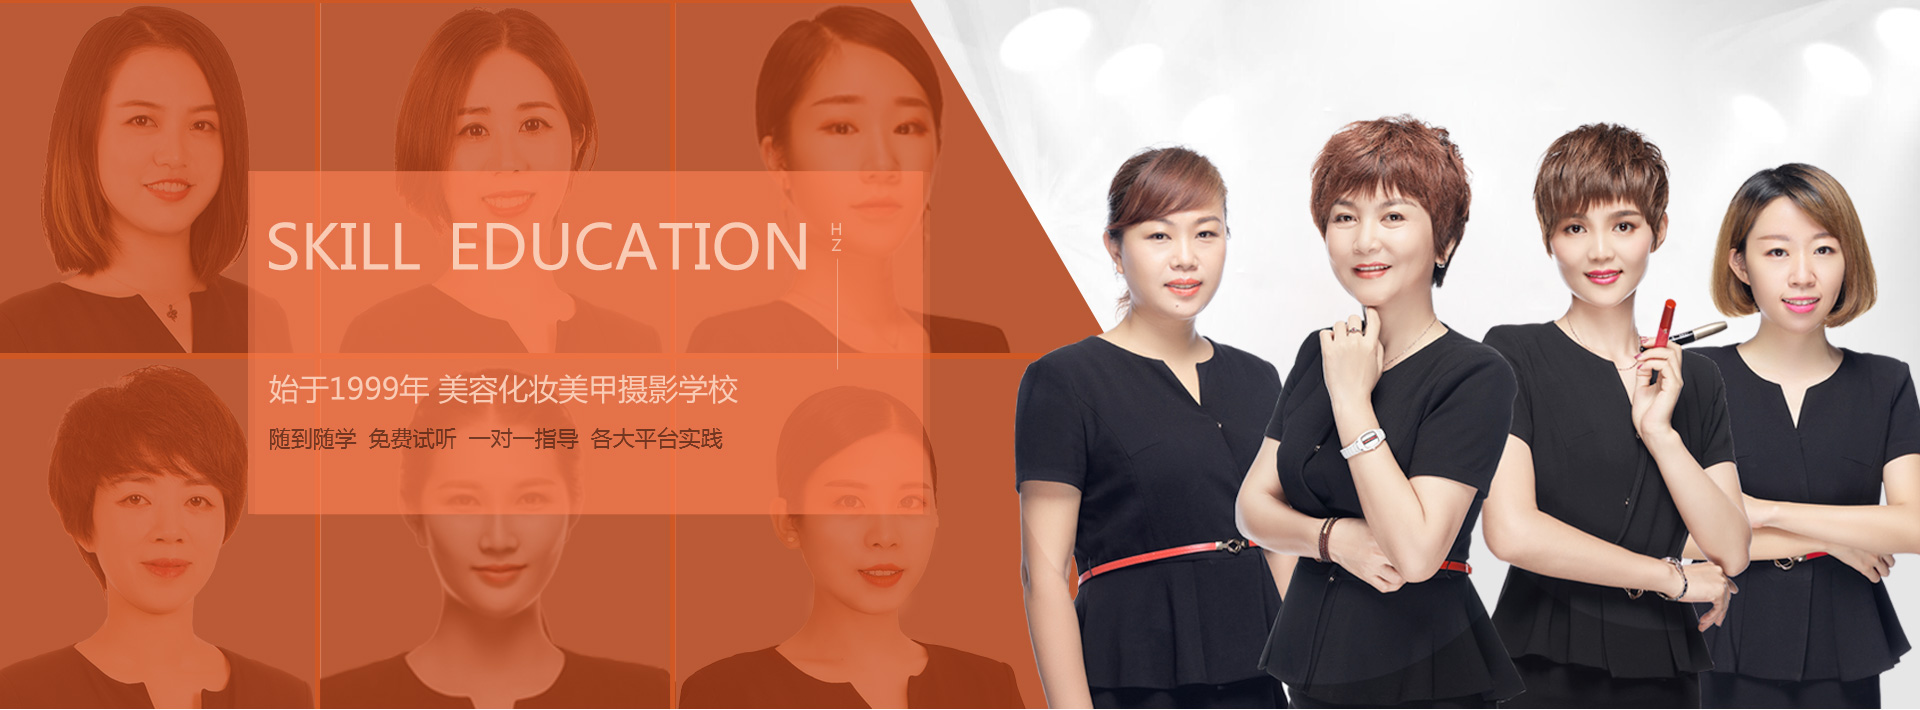
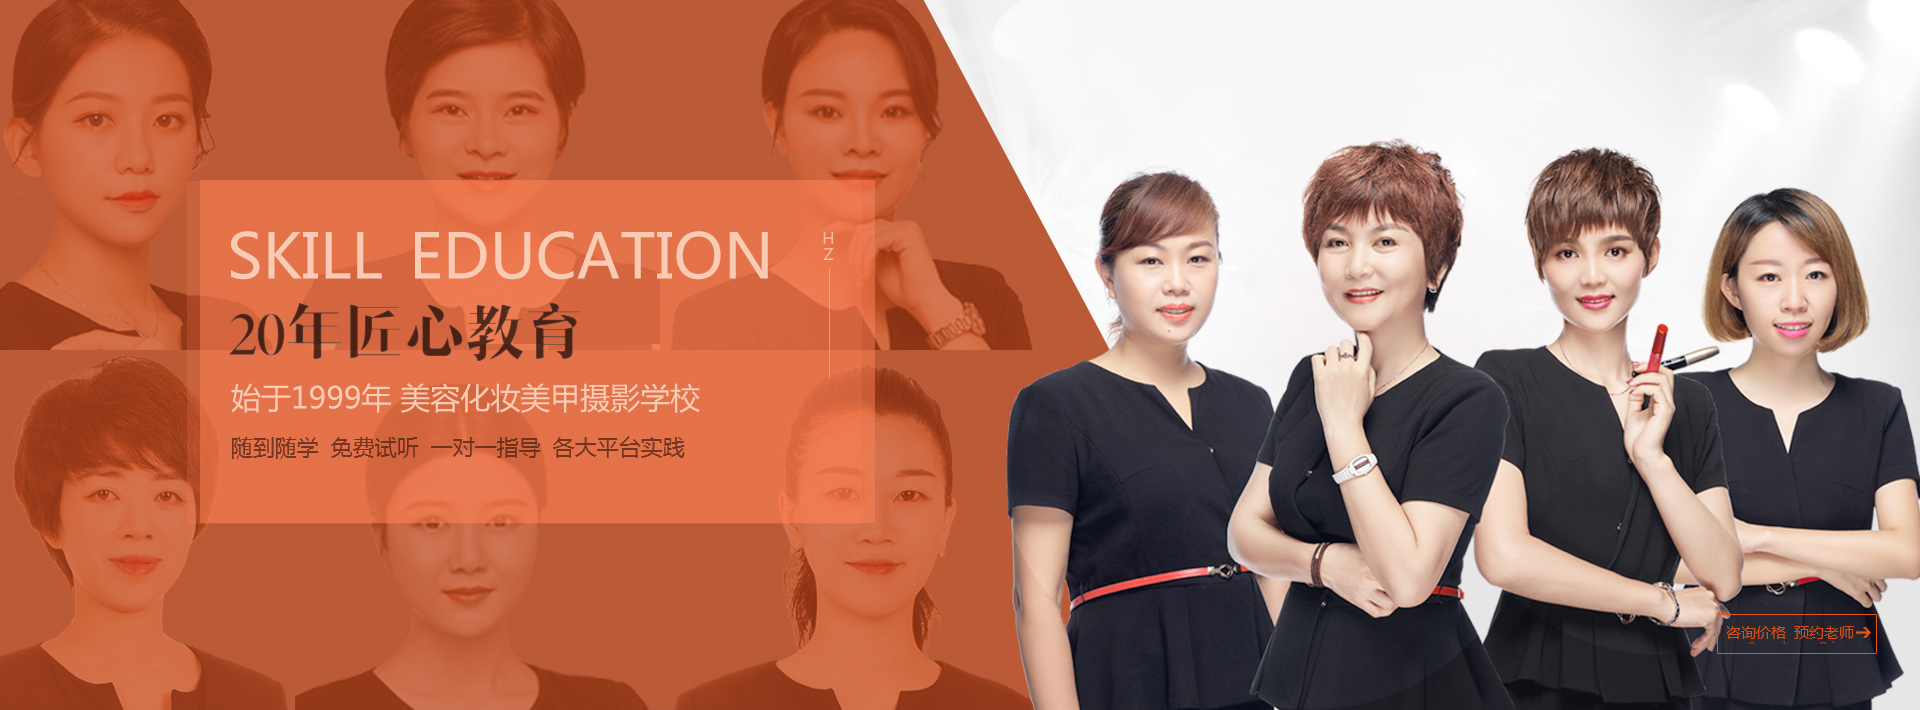
品牌页面老师更新
品牌页面老师更新

Changed region(s): [[0.0, 0.0, 1.0, 1.0], [0.0, 0.8986, 0.0625, 0.9606], [0.9688, 0.0, 1.0, 0.031]]

diff --git a/www.hkhongzhuang.com/static/css/pc/brand.css b/www.hkhongzhuang.com/static/css/pc/brand.css
@@ -28,7 +28,7 @@ body { background: #fff; font-family: "å¾®è½¯é›…é»‘", sans-serif,
 .brand .g-container .g-doc .g-title h2 { font-size: 40px; font-weight: normal; font-stretch: normal; line-height: 40px; letter-spacing: 0px; text-align: center; }
 .brand .g-container .g-doc .g-title p { font-size: 26px; font-weight: normal; font-stretch: normal; line-height: 26px; letter-spacing: 0px; opacity: 0.8; margin-top: 10px; text-align: center; }
 .brand .g-container .g-doc .consult { display: block; }
-.brand .banner { background: url('/static/images/pc/brand_banner.jpg') center top no-repeat; height: 710px; }
+.brand .banner { background: url('/static/images/pc/brand_banner.jpg?v=0.1') center top no-repeat; height: 710px; }
 .brand .banner .g-doc { position: relative; height: 710px; }
 .brand .banner h1 { position: absolute; top: 296px; left: 30px; background: url('/static/images/pc/brand_banner_bg1.png') center top no-repeat; height: 60px; width: 354px; }
 .brand .banner .consult { position: absolute; right: 0; bottom: 10px; background: url('/static/images/pc/brand_consult0_bg.png') center top no-repeat; height: 40px; width: 160px; }

diff --git a/m.hkhongzhuang.com/static/css/brand.css b/m.hkhongzhuang.com/static/css/brand.css
@@ -116,7 +116,7 @@ body {
 .brand .banner {
     height: 15.87030717rem;
 
-    background: url("/static/images/brand_banner.jpg") center top no-repeat;
+    background: url("/static/images/brand_banner.jpg?v=0.1") center top no-repeat;
     background-size: auto 100%;
 }
 .brand .banner .g-doc {
